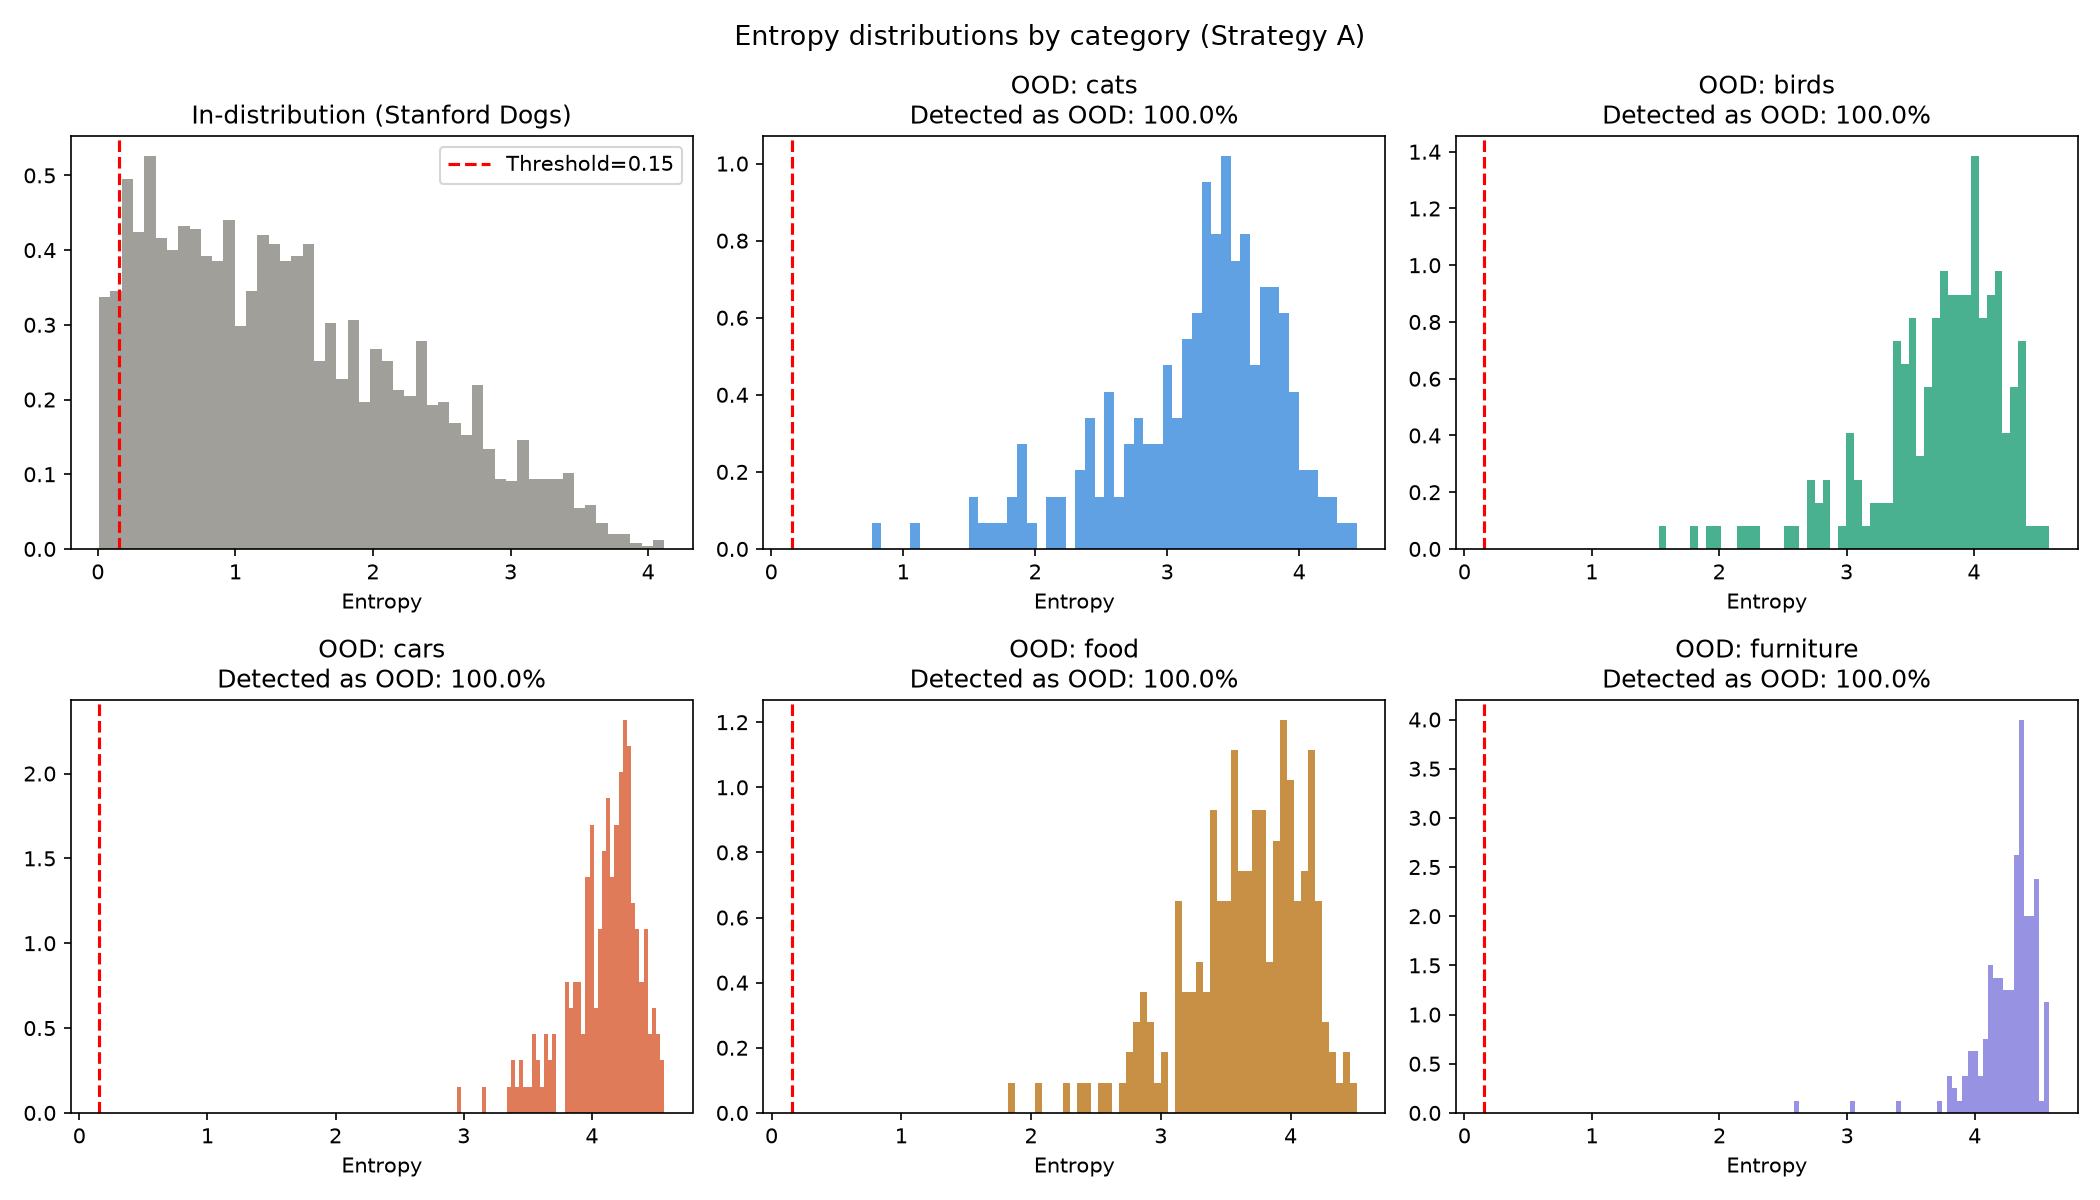
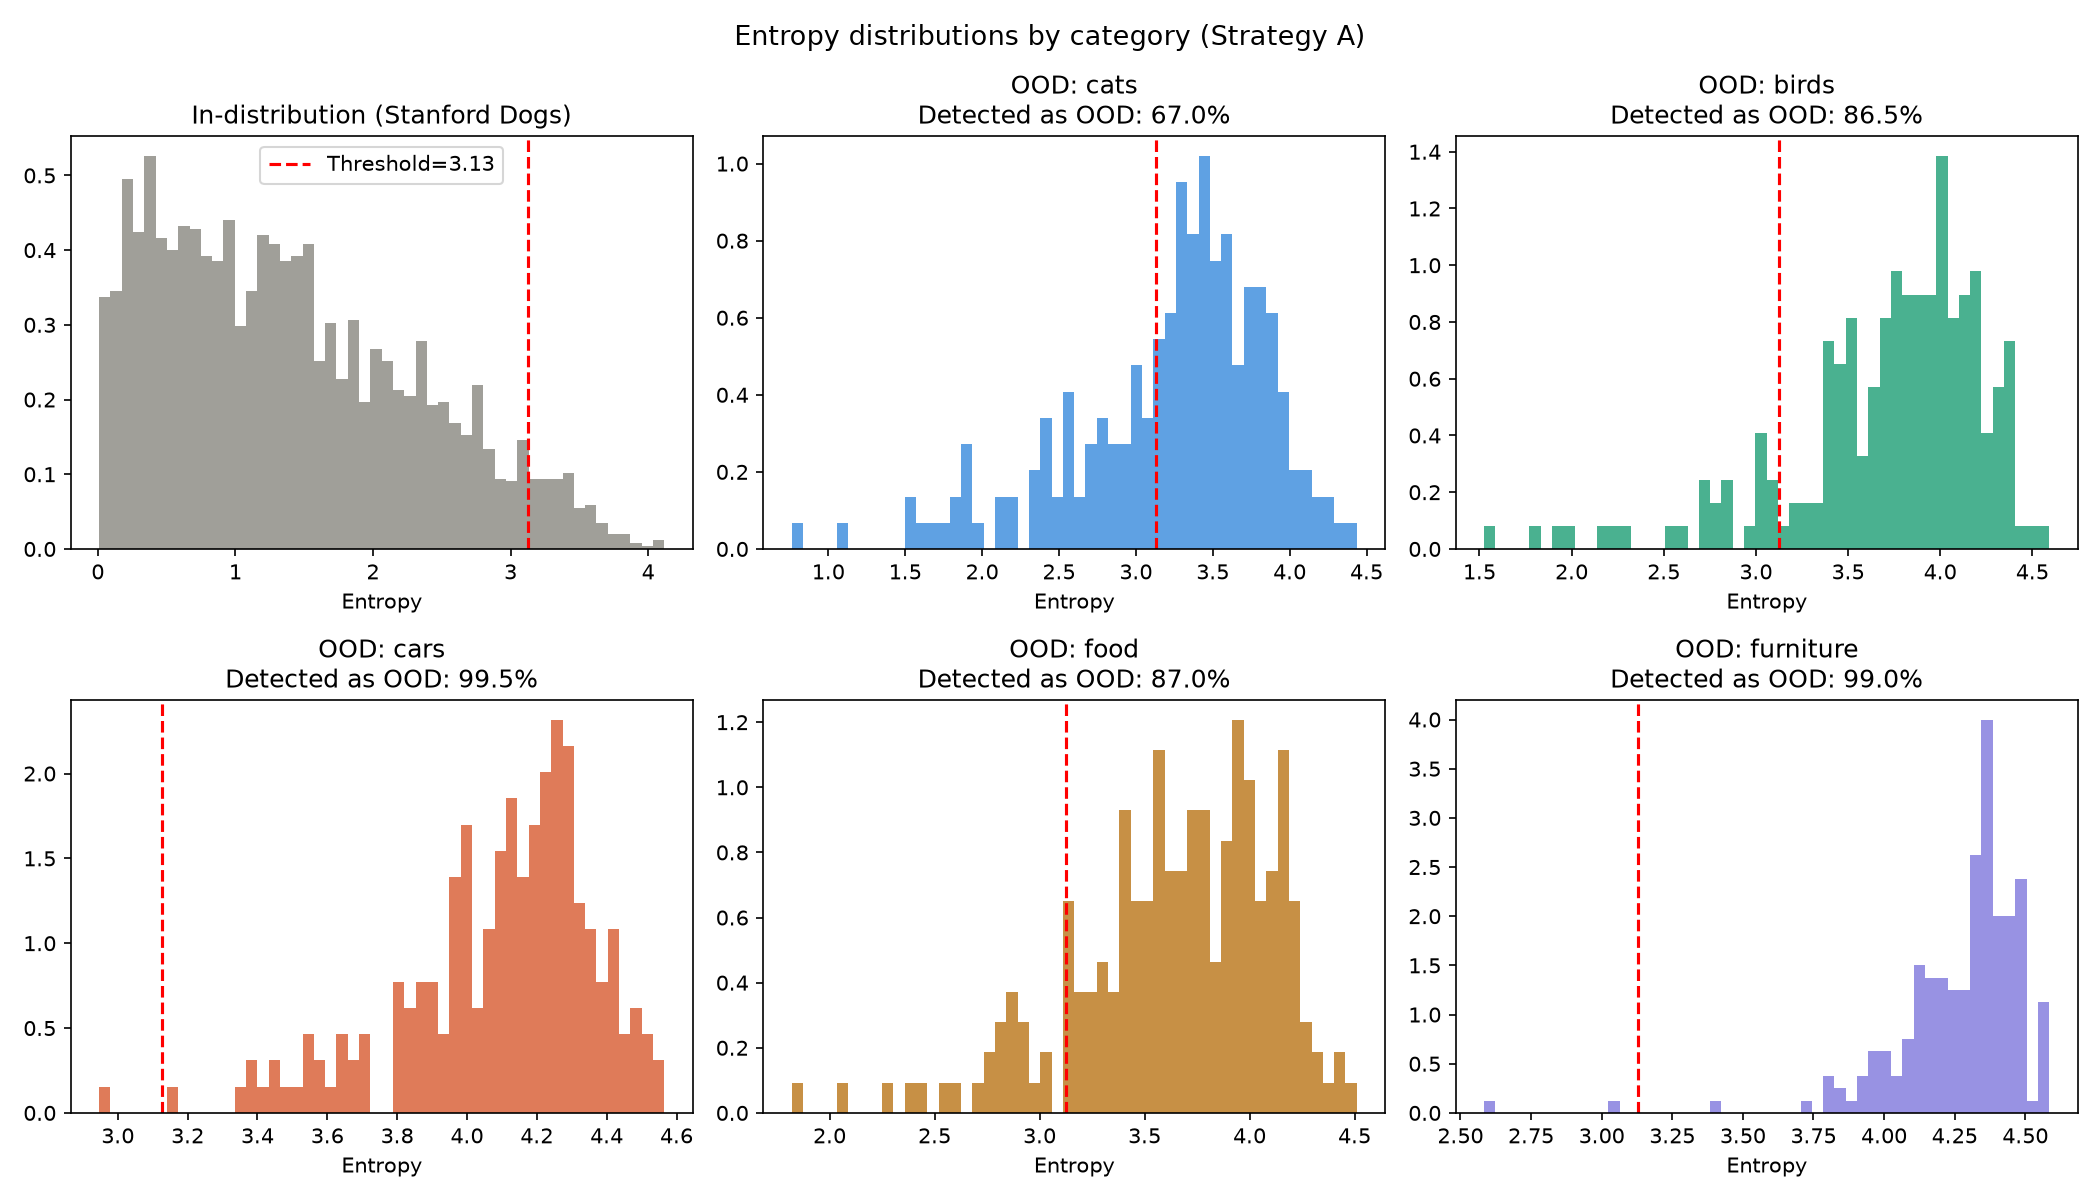
fix: correct inverted percentile formula in OOD threshold calculation

diff --git a/src/ood_failure_analysis.py b/src/ood_failure_analysis.py
@@ -219,7 +219,7 @@ def compute_threshold_at_tpr(
     target_tpr: float = 0.95,
 ) -> float:
     """Find entropy threshold that catches target_tpr of in-distribution samples."""
-    return float(np.percentile(in_entropy, (1 - target_tpr) * 100))
+    return float(np.percentile(in_entropy, target_tpr * 100))
 
 
 def main():
